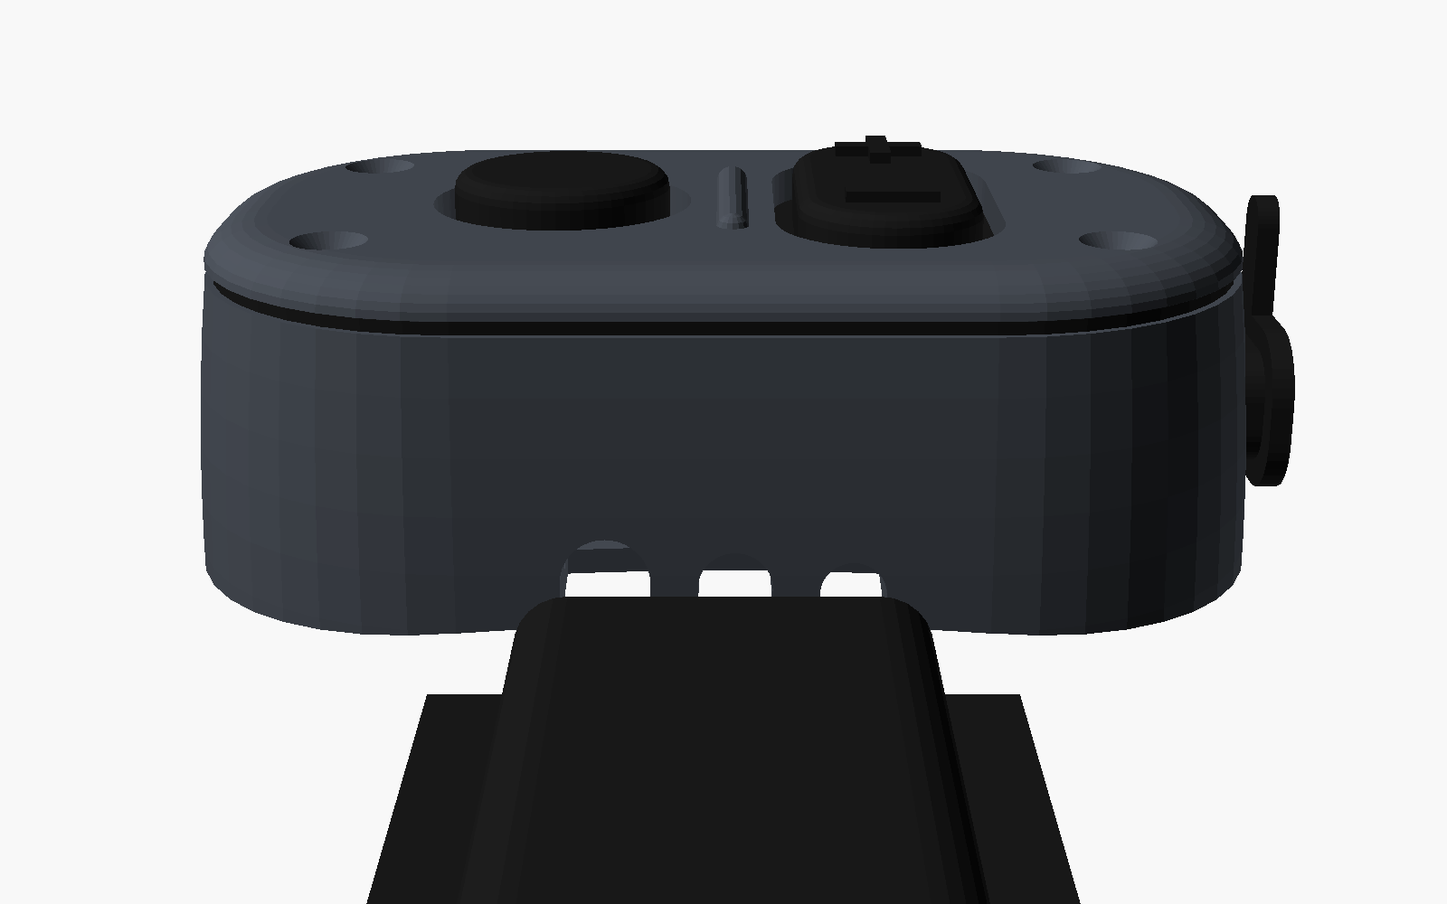
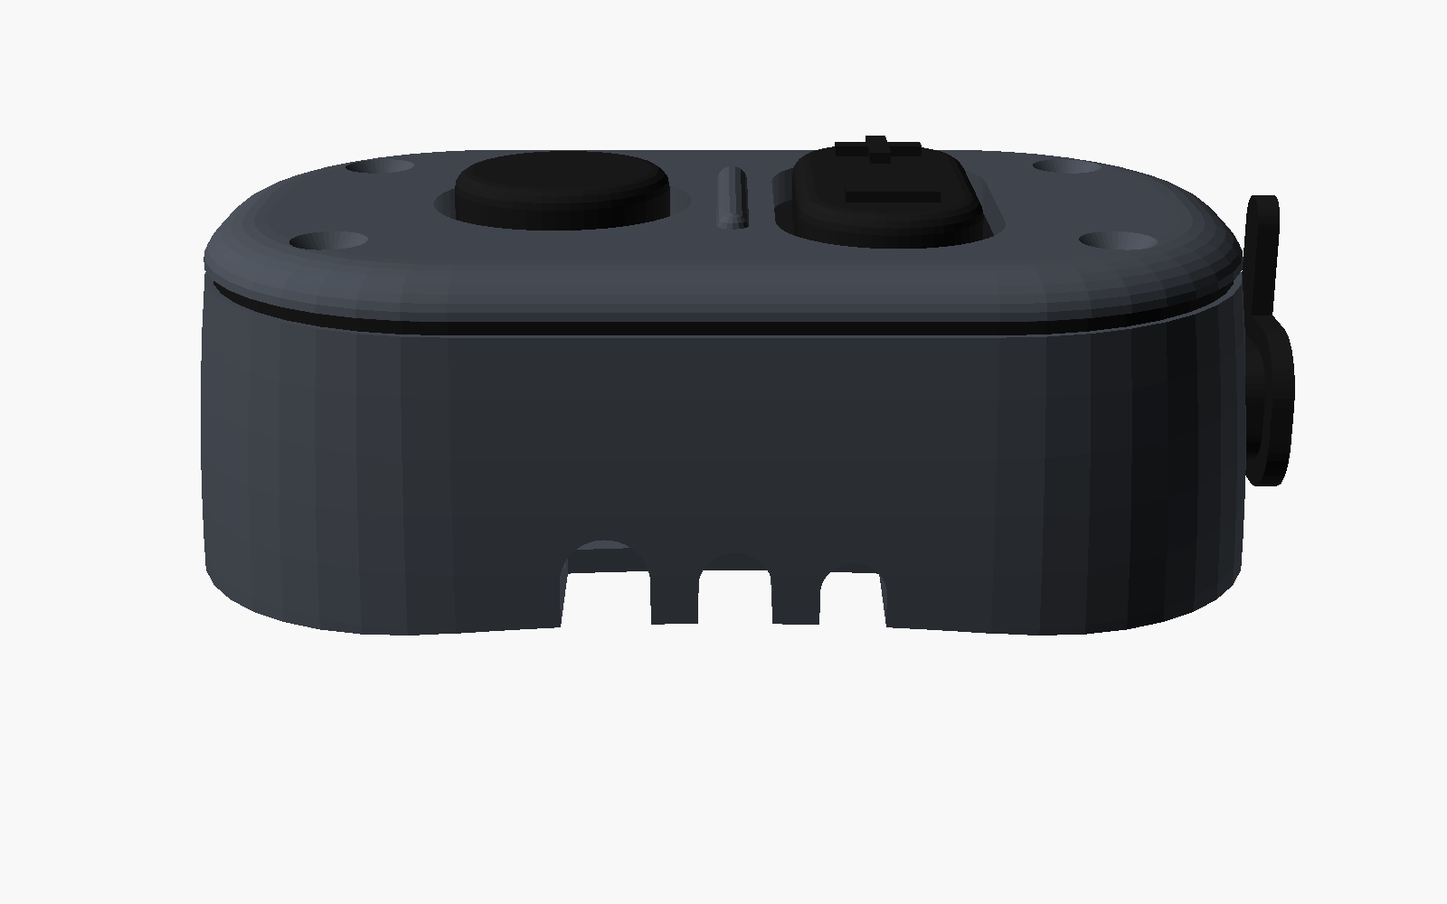
Helmet Headset: the pod along the shell's lower edge, no side cable channel
Owner: "cable channel from the side is not need but is need for the
back", chose "pod at the lower edge".
- The side pod now sits along the shell's lower edge (its long side
  parallel to the edge, its bottom side pod_edge 3 mm above it), so its 3
  cables go from the notches straight in under the edge trim. The side
  cable_channel part and run_l are gone; the back box keeps its channel.
- The battery's lead now comes round inside the edge and out straight
  into the pod's third notch.
- Checks pass with the battery on the back and in the pod.
- Pictures (hh_helmet, hh_channel, hh_back, hh_bottom, hh_grooves now the
  back channel, hh_inside), README, What to buy, website (parts, groups,
  settings), param_deps, CLAUDE.md.

Changed region(s): [[0.25, 0.651, 0.75, 1.0]]

diff --git a/helmet_headset_v1/README.md b/helmet_headset_v1/README.md
@@ -4,7 +4,7 @@
 
 Take a cheap Bluetooth neckband apart and rebuild it inside a motorcycle helmet: music, calls and navigation voice for about ₹1,900–3,350 (est.) instead of a ₹5,000+ helmet communicator. **Everything that makes sound or picks it up is the neckband's own:** its board (Bluetooth, amplifier, charging), its battery, its two speakers and its mic. This project only moves them to the right places in the helmet and adds printed housings; the only things you buy besides the neckband are small hardware bits (tape, screws, 3 switches, foam, wire). It's general purpose: the helmet's curve and the neckband's parts are settings.
 
-![A slim pod on the left of a modular helmet (white stand-in), behind the chin bar's pivot](images/hh_helmet.png)
+![A slim pod low on the left of a modular helmet (white stand-in), along the shell's lower edge behind the chin bar's pivot](images/hh_helmet.png)
 
 **Owner's choices (2026-11-26):**
 - "using a cheap neckband and then dismantle this and use this as a helmet headset";
@@ -16,16 +16,17 @@ Take a cheap Bluetooth neckband apart and rebuild it inside a motorcycle helmet:
 - **a pod that fits most neckbands** ("make the 3d pod fit most of the headsets"), then **a lot smaller** ("its too big ... it fine if some neckbands dont fit ... make it a lot smaller"): room for most, not all, with the board **stacked** on the battery (chosen over a flat, longer pod); and **a dedicated volume rocker** ("have a dedicated volumen button"), separate from the play/call button;
 - **the cables out of the pod's bottom long side** ("as the mounting will be on the side with the long side laying horizontally on the helmet i feel the holes groves should open on the long side which means it will exit on the bottom side of the helmet"): the openings face down, and the channel runs straight down to the edge. (Before that they left through the pod's back end, with a turn in the channel.)
 - **the battery on the back** (2026-11-27: "build a version where the battery is in a different compartment maybe on the back of the helmet to reduce the bulk on the sides"): the battery moved to its own slim **back box**, and the side pod lost 6 mm (23 → 17 mm proud). The battery's lead runs in from below like the other cables. Keeping it in the pod is still an option (`batt_at` = "pod").
+- **no cable channel on the side** (2026-11-27: "cable channel from the side is not need but is need for the back", choosing "pod at the lower edge"): the pod now sits **along the shell's lower edge**, its cable notches 3 mm above it, so the cables go straight in under the edge trim. Only the back box keeps a short channel.
 
 ## What goes where
 
 | Where | What | Why there |
 |---|---|---|
-| **Pod, outside, left side, behind the chin bar's pivot** | the neckband's board (Bluetooth, amplifier, charging, its USB-C socket), a play/call button and a volume rocker | buttons you can find and press with gloves on; charging without taking anything out |
+| **Pod, outside, left side, along the shell's lower edge, behind the chin bar's pivot** | the neckband's board (Bluetooth, amplifier, charging, its USB-C socket), a play/call button and a volume rocker | buttons you can find and press with gloves on; charging without taking anything out; its cables go straight in under the edge |
 | **Back box, outside, on the back of the helmet** | the neckband's battery (or in the pod, with `batt_at` = "pod") | it takes the battery's bulk off the side; the battery isn't against your head |
 | **Ear pockets in the liner** | the earbuds' own speakers (10 mm), each in a printed puck | the liner already has these pockets: nothing is cut |
 | **On a boom in front of your mouth** | the neckband's own mic, on longer wires | a mic needs to be close to the mouth to beat wind noise |
-| **Out of the pod's bottom side, straight down the outside of the shell, then in under its lower edge** | 3 thin cables from the pod: to the speakers, the mic and the battery, in the grooves of a flexible **cable channel**; the battery's lead goes round inside the lower edge to the back, and out to the back box in its own short channel | no holes in the shell; the openings face down, so water runs away from them |
+| **Out of the pod's bottom side, straight in under the shell's lower edge** | 3 thin cables from the pod: to the speakers, the mic and the battery; the battery's lead goes round inside the lower edge to the back, and out to the back box in its own short **channel** | no holes in the shell; the openings face down, so water runs away from them |
 
 ![Inside (the stand-in cut open): the speaker in the left ear pocket, the boom mic held at the shell's lower edge, reaching into the chin bar](images/hh_inside.png)
 
@@ -92,11 +93,11 @@ A small pod with rounded ends, **about 59 × 37 mm and 17 mm proud of the shell 
 
 - **Keys:** the round **multi-function** button at the front (play/pause, answer/end call, voice assistant, power), then the **volume rocker** (top end louder, bottom end quieter).
 - **USB-C:** in the back end, sealed by a small **TPU plug** with a pull tab (pointing up). Charge with the plug out; put it back before riding.
-- **Cables:** 3 notches in the pod's **bottom long side**, right at the shell, under the neckband's board (between two of the floor's ribs): 4.2 mm for the speakers' 4-core cable (the one nearer the front), 3.4 mm for the mic's shielded cable (old USB and audio cables work), and 3 mm for the battery's lead (2 with the battery in the pod). The cables come out flat against the shell, pointing straight down, into the cable channel. Seal the notches with neutral-cure silicone.
+- **Cables:** 3 notches in the pod's **bottom long side**, right at the shell, under the neckband's board (between two of the floor's ribs): 4.2 mm for the speakers' 4-core cable (the one nearer the front), 3.4 mm for the mic's shielded cable (old USB and audio cables work), and 3 mm for the battery's lead (2 with the battery in the pod). The cables come out flat against the shell, pointing straight down, right at the shell's lower edge, and go in under the edge trim. Seal the notches with neutral-cure silicone.
 
-  **Why the bottom side, for water:** the pod lies along the helmet, so its bottom long side faces the ground. The notches open downward: rain running down the pod flows past them and off, and water would have to climb up against gravity to get in. The channel's top end butts against the pod's side and covers them.
+  **Why the bottom side, for water:** the pod lies along the helmet, so its bottom long side faces the ground. The notches open downward: rain running down the pod flows past them and off, and water would have to climb up against gravity to get in. With the pod at the lower edge, the cables are under the edge trim straight away.
 
-  ![The pod's bottom side (the cable channel pulled away to show them): the 3 cable notches, right at the shell](images/hh_bottom.png)
+  ![The pod's bottom side: the 3 cable notches, right at the shell](images/hh_bottom.png)
 - **Sun:** a LiPo in a dark box on a helmet in the Mumbai sun gets hot. Print the pod in a light colour if you can, and don't leave the helmet in direct sun.
 
 **Fitting it to your helmet's curve.** The pod's underside is cut to the shell's curve where it goes, which has two radii: along the pod (front to back, `shell_rl`, 175 mm) and across it (up and down, `shell_rw`, 160 mm). To measure each one, lay a straight ruler across the spot, measure its length L where it touches and the gap h under its middle:
@@ -121,7 +122,7 @@ The 1.1 mm VHB tape takes up small differences. Clean the spot with isopropyl al
 By default (`batt_at` = "back") the neckband's battery goes in its own **back box**, low on the back of the helmet, so the side pod only holds the board and the keys and is **6 mm thinner** (17 mm proud instead of 23).
 - **The box:** **41.4 × 26.4 mm, 9.2 mm proud** of the shell at its middle. A PETG **base** stuck on with the same 1.1 mm VHB tape, its underside curved to the back of the shell (2 radii, `shell_bk`: 120 mm across, 140 mm up and down: measure yours the same way as for the pod). The battery lies in it on foam tape, 0.6 mm of foam round it.
 - **The cover (TPU), no screws:** it snaps over the base's walls (a 0.4 mm bead round its inside clicks into a groove round them) and its top presses the walls' rim 0.2 mm: the seal. Peel it off by one corner to get at the battery.
-- **The lead:** the battery's 2 wires, extended with a thin 2-core cable (about 50 cm: 26 AWG is plenty; a **JST-PH 2-pin plug and socket** at the pod end lets you take the box off), leave through a notch in the base's **bottom** side, at the shell, into a **short TPU channel** with one groove (`run_b`, 60 mm: from the box's bottom edge down to the shell's lower edge). Under the edge, it goes round **inside** the lower edge (under the edge trim or the neck roll) to the left side, and out up the side pod's cable channel in its **third groove**, into the pod.
+- **The lead:** the battery's 2 wires, extended with a thin 2-core cable (about 50 cm: 26 AWG is plenty; a **JST-PH 2-pin plug and socket** at the pod end lets you take the box off), leave through a notch in the base's **bottom** side, at the shell, into a **short TPU channel** with one groove (`run_b`, 60 mm: from the box's bottom edge down to the shell's lower edge). Under the edge, it goes round **inside** the lower edge (under the edge trim or the neck roll) to the left side, and out under the edge straight into the side pod's **third notch**.
 - **Charging** doesn't change: the neckband's board in the side pod still charges it through its USB-C.
 - **Weight:** a 300 mAh cell weighs about 7 g, the box about 4 g.
 
@@ -139,17 +140,19 @@ By default (`batt_at` = "back") the neckband's battery goes in its own **back bo
 | Volume − button's 2 pads | the rocker's bottom switch | " |
 | Battery pads | the battery (red +, black −) | in the pod: as it was. In the back box: a thin 2-core lead, about 50 cm, through a JST-PH 2-pin plug at the pod; keep red to + |
 
-### Routing the cables: the cable channel
+### Routing the cables
 
-![The pod and the cable channel on the helmet: out of the pod's bottom side, straight down to the shell's lower edge](images/hh_channel.png)
+![The pod along the shell's lower edge: its cables go straight from the notches in its bottom side in under the edge trim](images/hh_channel.png)
 
-No hole in the helmet: the cables go in **from below**.
-1. **Out of the pod:** through the 3 notches in its bottom side (2 with the battery in the pod), flat against the shell.
-2. **Down the shell:** in the **cable channel**, a flexible TPU strip, 27 mm wide with its flanges (21.2 with 2 grooves) and 5.6 mm tall. It runs straight down from the pod's bottom side for `run_l` (90 mm: measure from the pod's bottom edge to the shell's lower edge, along the shell). Its top end butts against the pod's side and covers the notches. It has **3 grooves on its underside** (2 with the battery in the pod), one per cable, lined up with the notches. Lay the cables on the shell, press the channel over them, and it holds them flat against the shell. It's TPU, so it bends to follow the shell's curve. Thin flanges either side take strips of VHB tape (or a thin line of silicone). Its lower end slopes down so the cables come out flat at the edge.
-3. **In under the edge:** at the shell's lower edge, gently lift the rubber edge trim, lay the cables over the edge and press the trim back over them. Many helmets also have a gap between the shell and the liner there; the cables slide up into it.
+No hole in the helmet, and no channel on the side: the cables go in **from below**.
+1. **Where the pod goes:** along the shell's **lower edge**, on the left behind the chin bar's pivot, its long bottom side parallel to the edge and **about 3 mm above it** (`pod_edge`), so the notches open right at the edge.
+2. **Out of the pod:** through the 3 notches in its bottom side (2 with the battery in the pod), flat against the shell, facing down.
+3. **In under the edge:** gently lift the rubber edge trim, lay the cables over the edge and press the trim back over them. Many helmets also have a gap between the shell and the liner there; the cables slide up into it. A dab of silicone where they pass the trim keeps water out.
 4. **Inside:** between the foam liner and the comfort padding: the speaker cable to the left ear pocket, and on round the back inside the neck roll to the right one; the mic cable to the boom mount next to it; the battery's lead round the back inside the lower edge, and out under the back edge into the back box's short channel.
 
-![The cable channel turned over: the 3 grooves on its underside, the thin flanges for the tape, its top end (left) shaped to the pod's side](images/hh_grooves.png)
+**The back box's channel:** a flexible TPU strip with one groove on its underside, from the box's bottom side straight down to the shell's lower edge (`run_b`, 60 mm: measure it along the shell). Lay the lead on the shell, press the channel over it, and stick its thin flanges down with strips of VHB tape (or a thin line of silicone); its lower end slopes down so the lead comes out flat at the edge.
+
+![The back box's channel turned over: the groove on its underside, the thin flanges for the tape](images/hh_grooves.png)
 
 ## Build order
 
@@ -158,7 +161,7 @@ No hole in the helmet: the cables go in **from below**.
 3. Print the parts, fit 4 M2 heat-set inserts in the pod's pillars.
 4. Wire the switch board and the cables; test everything on the bench (pairing, music on both sides, a call, the button and both ends of the rocker, charging).
 5. Fit it all in the pod: the board on its foam pad on the floor (with the battery in the pod: the battery on foam tape first, the board on top) (so the USB-C socket lines up with its hole), the cables down beside the battery and out of the notches, foam in the gaps so nothing rattles; glue the rocker's post on the switch board; lay the keypad on, screw the lid down evenly.
-6. Stick the pod on the helmet, fit the speakers and the boom, lay the cables down the shell, press the cable channel over them and tuck them in under the edge trim. Stick the back box's base on the back, the battery in it on foam tape, snap the cover on; its lead down its short channel, round inside the edge to the left and up the side channel's third groove to the pod's JST plug.
+6. Stick the pod on the helmet along the lower edge, fit the speakers and the boom, and tuck the cables in under the edge trim. Stick the back box's base on the back, the battery in it on foam tape, snap the cover on; its lead down its short channel, in under the back edge, round inside the edge to the left and out under the edge into the pod's third notch, to its JST plug.
 7. Test on the bike at low speed; bend the boom until callers hear you clearly.
 
 ## Settings to measure
@@ -167,7 +170,6 @@ All in `helmet_headset.scad` (MEASURE lines), or on the website ("Make it your s
 - **Your helmet:** the shell's 2 radii at the pod's spot (`shell_rl`, `shell_rw`); the ear pockets' diameter and depth (`ear_d`, `ear_depth`).
 - **The neckband (only if its parts are bigger than the default room, or to shrink the pod further):** the board's length, width and thickness (`nb_len`, `nb_w`, `nb_t`: default 50 × 12 × 1.0); the tallest parts under and on it (`nb_under` 1.5, `nb_over` 2.5); how far its USB-C socket sticks out past its end (`usb_out` 0.5); the battery (`batt_l`, `batt_w`, `batt_t`: default 35 × 20 × 6; a cell 12 mm wide or less can be up to about 50 long with no change). Always measure the earbuds' speakers (`spk_d`, `spk_t`: 10 × 4); the mic (`mic`, 6 × 2.7).
 - **The bits you buy:** the tactile switches' height (`tact_h`, 7); the boom's thickness (`boom_d`, 5); the cables (`cable_d`).
-- **The cable channel's length** (`run_l`, 90): along the shell, from the pod's bottom edge straight down to the shell's lower edge.
 - **Where the battery goes** (`batt_at`: "back" or "pod"); for the back box, the shell's 2 radii at its spot (`shell_bk`, 120 × 140), its channel's length (`run_b`, 60) and the battery lead's thickness (`bat_cable`, 3).
 
 The pod grows to fit what you enter. The model refuses what doesn't fit: switches too short to reach the keys, a battery or board that would hit the pillars or the rounded ends, a puck bigger than the ear pocket.
@@ -194,7 +196,6 @@ The pod grows to fit what you enter. The model refuses what doesn't fit: switche
 | `pod_lid` | PETG / ASA | flat underside down |
 | `keypad`, `usb_plug` | TPU 85A–95A | the keypad flat, keys up; the plug on its flange |
 | `rocker_post` | PETG | on its end (tiny: print it with another part) |
-| `cable_channel` | TPU 85A–95A | flanges down (the grooves bridge 4.6 mm) |
 | `bb_base` (the back box) | PETG / ASA (light colour) | its curved underside down, with supports under the curve (or on its open top, the floor bridging) |
 | `bb_cover`, `bb_channel` | TPU 85A–95A | the cover top down; the channel flanges down |
 | `speaker_puck` × 2 | PETG | front down (the hollowed back up) |

diff --git a/CLAUDE.md b/CLAUDE.md
@@ -176,6 +176,7 @@ A cheap Bluetooth neckband taken apart and rebuilt as a helmet headset (owner: "
 - **CAD `helmet_headset.scad`** (OpenSCAD 2021.01, asserts, `PART=`). Pod frame: x toward the helmet's BACK, y up, z out of the shell. The pod (59.7 x 36.8 mm, 22.8 mm proud at its middle; rounded ends `rc` 16, sides curving in `side_in` 1.8 by the seam, lid rolled `rr` 4) grows from what's measured: `nb_len/nb_w/nb_t`, `nb_under`, `nb_over`, `usb_out`, `batt_l/w/t` (the neckband's own battery, MEASURE; placeholder 40 x 25 x 5.2), `Wi` also widens so the board passes between the back pillars. Battery on the floor, the board stacked on it (its USB-C in the back wall, `usb_gap` 0.5; TPU `usb_plug` with a pull tab). Underside cut to the shell: an ellipsoid with radii `shell_rl` 175 along / `shell_rw` 160 across (MEASURE: radius = L^2/(8h) + h/2), raised by `vhb_t` 1.1. The floor follows the shell (`shell_cut(fl - 0.25)`: exactly fl was tangent to the flat floor = non-manifold) with cross ribs (`rib_x`, nudged 0.137 off the ellipsoid's facet corners: else degenerate edges) for a flat seat. Switch perfboard (`sw_l` derived, about 27 x 30) on chamfered ledges, 3 tactiles 6x6x7 wired in parallel with the board's own buttons (so the board's button positions don't matter). TPU `keypad` = flat sheet: the 2 keys (below) + the seam gasket (lid squeezes the rim only, 0.2; sheet thinned to 0.6 round each dome as a hinge). Lid: 4 M2 x 6 countersunk into inserts in corner pillars; a ridge between the keys. `dome_top` rises with taller switches. Inside: `speaker_puck` (the earbud's OWN 10 mm driver, `spk_d`/`spk_t` 10 x 4, MEASURE; a 40 x 6.7 disc filling the ear pocket, back hollowed when the speaker is small, printed front down; optional 40 mm 32 ohm speakers fit with `spk_d` 40, `spk_t` 5.5 -> 44 x 8.2), `mic_cup` (the neckband's OWN mic) + `boom_mount` (plate between shell and liner on the FIXED part behind the chin bar, so the chin bar flips over the boom; no wire across the hinge).
 - **Cable routing (owner, 2026-11-26: "routed not using some hole in the helmet instead from below the helmet so have some grooves to route those wires"):** the pod's cable holes are notches at shell level, straight into `cable_channel`: a flexible TPU strip (cross-section u across, w out of the shell), `run_l` 90 (MEASURE), grooves `ch_c` = cable + 0.4 on its UNDERSIDE at `ch_u` (+-`cab_s`/2), 4 mm x 0.8 flanges for VHB, the lower end tapered (`ch_taper`; the taper's end box is 2.2 tall: 1.8 was coplanar with the flanges = non-manifold). Then in under the edge trim; inside between liner and comfort padding. **Then (owner: "how about the cable go on the back part ... will help in water proofing too", chose "out of the pod's back end"):** notches in the back end wall, a channel with a 16 mm quarter turn (commit edf8a53). **Now (owner, 2026-11-26: "as the mounting will be on the side with the long side laying horizontally on the helmet i feel the holes groves should open on the long side which means it will exit on the bottom side"):** the notches are in the pod's BOTTOM long side (-y), facing down, at `cab_x` = `cab_xc` +- `cab_s`/2 (`cab_xc` = midway between `rib_x[3]` and `rib_x[4]`, under the neckband's board; speakers' cable toward the front), cut from 2.5 inside (through the curved floor) at `zb_at(x, W/2)`; asserts: on the straight side (clear of the rounded back end incl. the channel's flange) and clear of the battery's place. The channel is straight: `M_C` maps (u, w, e) to x = `cab_xc` + u, y = -W/2 + `ch_in` - e, z = w; length `ch_in` (3) + `run_l`, its top end cut by `offset(0.3) pod_2d(0)` so it butts against the pod's side; exported translated by [-cab_xc, W/2, 0]. `run_l` (90) is measured from the pod's bottom edge. Views: `pod_cables` (the pod + the channel pulled 12 mm away, `hh_bottom.png`), `channel_part` (turned over, grooves up, `hh_grooves.png`); both `render()` the channel (the preview drew its grooves wrongly). Stand-in: `CH_2D` is a straight line down from the pod's side, pushed radially onto `H` (`to_shell`), slabs hulled along it (`channel_on_helmet`). The USB plug's pull tab points up (`usb_tab` 5).
 - **Battery on the back (2026-11-27; owner: "build a version where the battery is in a different compartment maybe on the back of the helmet to reduce the bulk on the sides"; asked first whether a dev board would be cheaper than a neckband: no, about the same or more, worse calls, see the chat):** `batt_at` = "back" (default) or "pod". Back: the board lies on the floor ribs (`z_pcb0` = fl + 0.3 + nb_under), the battery terms drop out of `Wi`/`Li`: pod 59.3 x 36.8 x **16.8** (pod mode unchanged 59.7 x 36.8 x 22.8). The cables are a list `cabs` (+ `bat_cable` 3.0 in back mode): `cab_gap` (min 6, was a fixed 7), `cab_off`, `cab_x` centred on the CHANNEL's extent (`cab_mid`: 3 unequal grooves put it 0.15 over the straight side), `rib_n`/`rib_x` after `cab_x`; `run_*_2d(U, C)` take groove lists. **Back box** (box frame x across the back, y up, z out): `bb_base` (PETG, floor curved to `shell_bk` [120, 140] MEASURE, cavity rrect r 0.8: the cell's square corners hit r 2.4) + `bb_cover` (TPU, skirt `bb_skirt` 3.2 over the walls, a 0.4 bead into a groove, the top presses the rim 0.2) = 41.4 x 26.4 x 9.2; the lead's notch in its bottom side into `bb_channel` (1 groove, `run_b` 60). Stand-in: `on_back`, `BK_M` at `bk_at` -38, `to_shell(p, M)`. Lead routing: down under the back edge, inside along the edge to the left, up the side channel's third groove; JST-PH at the pod. Views `back_view`, `back_exploded`; images `hh_back`, `hh_backbox`. Checks `check_bb_fit`, `check_bb_shell`, `check_bb_notch` EMPTY, `check_bb_snap` must collide; all pod checks pass in both modes and with a 50 x 28 x 7 and a 25 x 12 x 4 battery. Preview TRAP: the cut-away views' cutting cube was 600 mm and the camera sat inside it, so nothing was cut; it's now just the stand-in's right half (`cube([600, 300, 600])`). xargs TRAP again: `-D batt_at="pod"` lost its quotes through xargs: use printf '%s\0' + xargs -0, or a wrapper.
+- **No side channel (2026-11-27; owner: "cable channel from the side is not need but is need for the back", chose "pod at the lower edge"):** the side `cable_channel` (part, `run_l`, `M_C`, the stand-in's `channel_on_helmet`) is gone. On the stand-in the pod sits along the lower edge: `pod_m(z)` with its x parallel to the edge (`fwd` [-1, 0, 0.12], as `h_low` rises 0.12 toward the back), z the lowest with its bottom side `pod_edge` 3 above the edge (`pod_zs`). The notches' assert now checks they stay on the pod's straight side; `run_*_2d(U, C)` (no defaults) only build the back box's channel; `channel_part` / `pod_cables` views show the back channel / the pod's bottom. TRAP: a block replacement between the side channel and `module half_x` also deleted the back box section (it sat between them): restored from HEAD; diff the module list after big edits.
 - **Checks:** `check_insides` (touch only), `check_parts`, `check_plug`, `check_shell`, `check_notches`, `check_rest` EMPTY; must collide: `check_squeeze`, `check_press` (0.5 mm press reaches a switch). Asserts: domes' roofs, buttons on the flat top, pillars vs board/battery/switch board, board/USB/battery corners vs the rounded ends, switches reach the domes, puck vs `ear_d`/`ear_depth`. `headset_assembled` (view only) has ~20 sliver edges from coincident faces; the printed parts are clean.
 - **Stand-in helmet** (pictures only): hull of a dome ellipsoid `H` [150,125,140] and a chin ellipsoid `CHIN`, eye port, visor, pivot discs; liner only above z -55; pod placed by `POD_M` (tangent frame at `pod_at`). Images rendered with `openscad --camera=eye,centre` (5 views, `hh_*.png`).
 - **Website:** customize has no vector settings, so vectors are split into scalars (`nb_len` ... `spk_t`); `batt_t`/`nb_over`/`nb_under` use step 0.2 so param_deps' probe (default + 5 steps) gets past the `max()` thresholds. `vhb_t`, `ear_d`, `ear_depth` aren't in customize (they change no part).
